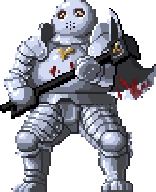
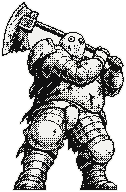
feat: nouveau sprite de Bazuso à l'encre, en pose de boss
Remplace le dessin de @CRYBAG (décision de Nathan). Généré d'après le manga,
mis au format avec ink-sprite.js, pupilles ajoutées à la main.

diff --git a/docs/HANDOFF.md b/docs/HANDOFF.md
@@ -54,7 +54,7 @@ Tests : 26 suites, 215 tests, tous verts. CI GitHub (`.github/workflows/ci.yml`)
 - **Sons et ambiance** : pas implémentés. Idée retenue : rien de continu ; au plus un son bref (< 2 s) aux grands moments
   (point franchi, succès, fin de Traque), désactivé par défaut et coupé en mode silencieux. Demande un module audio natif
   (donc un build) et des fichiers audio libres de droits. Les vibrations sont la version déjà faite.
-- **Autres boss** : la mécanique est générique (une entrée dans `src/data/bosses.ts`, une dans `src/data/enemies.ts`, un succès, et `afterEncounterId` pour enchaîner des duels). Bazuso, Mozgus et Grunbeld sont faits. Les images de Bazuso, Mozgus et Grunbeld viennent de @CRYBAG (pixel art sur fond violet, signature à retirer). Elles sont reconstruites à leur résolution d'origine, détourées, puis agrandies à 192 px de haut.
+- **Autres boss** : la mécanique est générique (une entrée dans `src/data/bosses.ts`, une dans `src/data/enemies.ts`, un succès, et `afterEncounterId` pour enchaîner des duels). Bazuso, Mozgus et Grunbeld sont faits. Bazuso est redessiné à l’encre (24/10/2026, pose de boss : voir `docs/sprites-encre.md`). Les images de Mozgus et Grunbeld viennent de @CRYBAG (pixel art sur fond violet, signature à retirer). Elles sont reconstruites à leur résolution d'origine, détourées, puis agrandies à 192 px de haut.
 - **Supprimer le compte Google** : écarté (Firebase demande une reconnexion récente) ; « Recommencer à zéro » efface déjà les données.
 
 ## Décisions de game design (à respecter)

diff --git a/docs/sprites-encre.md b/docs/sprites-encre.md
@@ -12,7 +12,8 @@ Pourquoi les redessiner : la conversion automatique des sprites en couleurs ne m
 | Guts sur la carte | `assets/map/guts-walk.png`, `guts-jeune-walk.png` (planches de marche), `guts-marker.png` | Marqueur animé (~48 px) |
 
 Les silhouettes « Inconnu » des collections se déduisent des nouveaux sprites : rien à dessiner.
-**Dessins de @CRYBAG** (Bazuso, Mozgus, Grunbeld, Guts jeune) : prêtés avec crédit obligatoire. Ne pas les redessiner ni les modifier sans son accord ; les garder tels quels en attendant.
+**Dessins de @CRYBAG** (Mozgus, Grunbeld, Guts jeune) : prêtés avec crédit obligatoire. Ne pas les modifier sans son accord.
+Décidé avec Nathan le 24/10/2026 : on les remplace par des sprites générés de zéro (Bazuso fait). Quand un dessin est remplacé, retirer son crédit.
 
 ## Le style
 
@@ -115,5 +116,5 @@ Rien dans l'appli ne retourne les images : un boss généré tourné vers la dro
    papier, puis ajoute le contour noir et le liseré papier (lisible sur la carte de nuit).
 4. Comparer avec les sprites déjà faits : mêmes proportions, même épaisseur de contour, même densité de trame.
 
-Faits : Casca et Griffith (21/10/2026). Le Guts généré servira aux planches de marche de la carte, qui demandent plusieurs
+Faits : Casca et Griffith (21/10/2026), Bazuso (24/10/2026, pupilles ajoutées à la main après la mise au format). Le Guts généré servira aux planches de marche de la carte, qui demandent plusieurs
 images (une par pas) : à faire à part.

diff --git a/PRODUCT.md b/PRODUCT.md
@@ -56,7 +56,7 @@ Contraintes :
 
 - 18 cases du manga : `assets/panels/` (une par checkpoint).
 - Carte : `assets/map/world-map.png`, marqueurs et planches de marche de Guts dans `assets/map/`.
-- Sprites en pixel art : `assets/companions/` (14), `assets/bosses/`, `assets/camp/`. La plupart ont été générés par IA ; ceux de Bazuso, Mozgus et Grunbeld, ainsi que le skin Guts jeune, viennent de dessins de @CRYBAG (accord pour un usage non commercial, crédit obligatoire tant qu'ils sont utilisés). **Les sprites peuvent être refaits**, à condition de rester cohérents avec l'univers et entre eux. La façon de les produire reste à décider.
+- Sprites en pixel art : `assets/companions/` (14), `assets/bosses/`, `assets/camp/`. La plupart ont été générés par IA ; ceux de Mozgus et Grunbeld (Bazuso a été redessiné le 24/10/2026), ainsi que le skin Guts jeune, viennent de dessins de @CRYBAG (accord pour un usage non commercial, crédit obligatoire tant qu'ils sont utilisés). **Les sprites peuvent être refaits**, à condition de rester cohérents avec l'univers et entre eux. La façon de les produire reste à décider.
 - Marque : `assets/brand_mark.svg`.
 - Textes : 18 chroniques, fiches des compagnons et des ennemis, 22 succès (`src/data/`).
 - Absences : pas de sprite pour Puck ; pas de sons. On n'invente pas de contenu de l'histoire sans validation.
